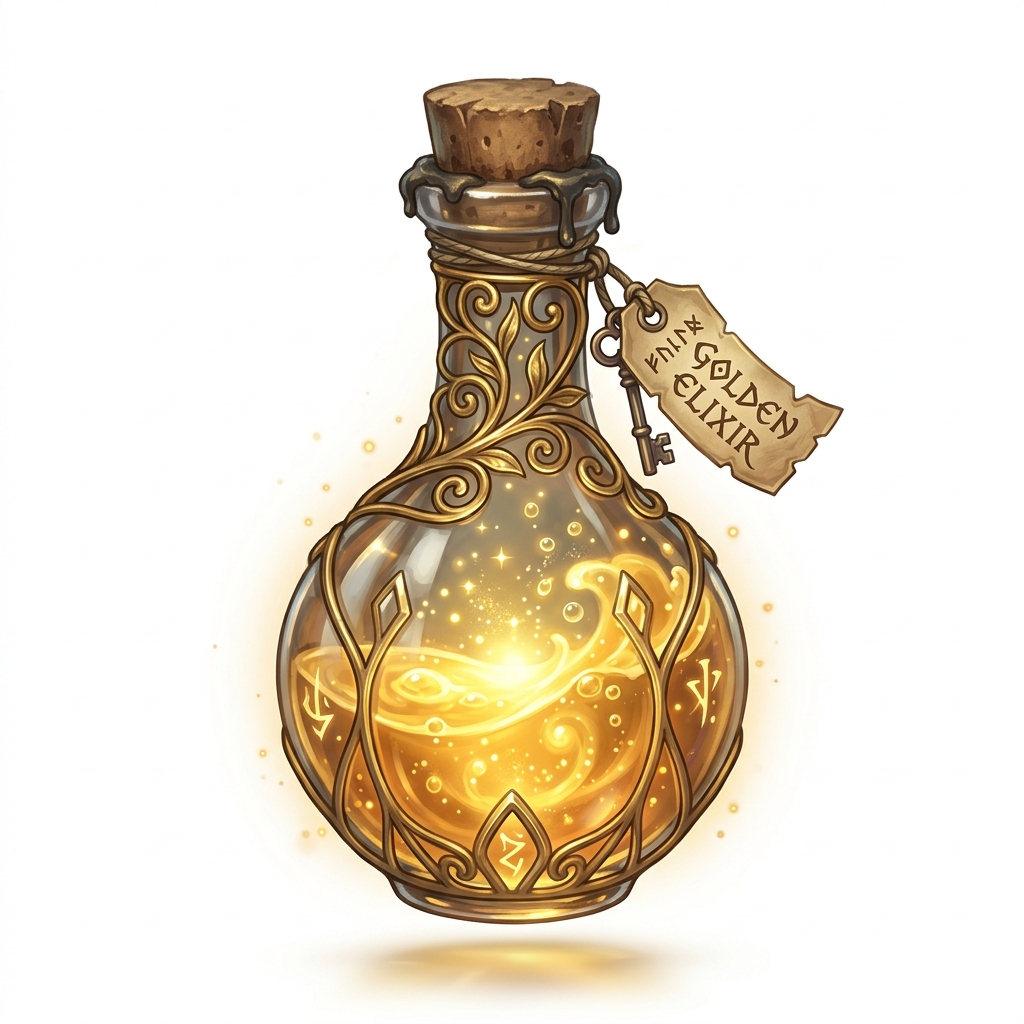
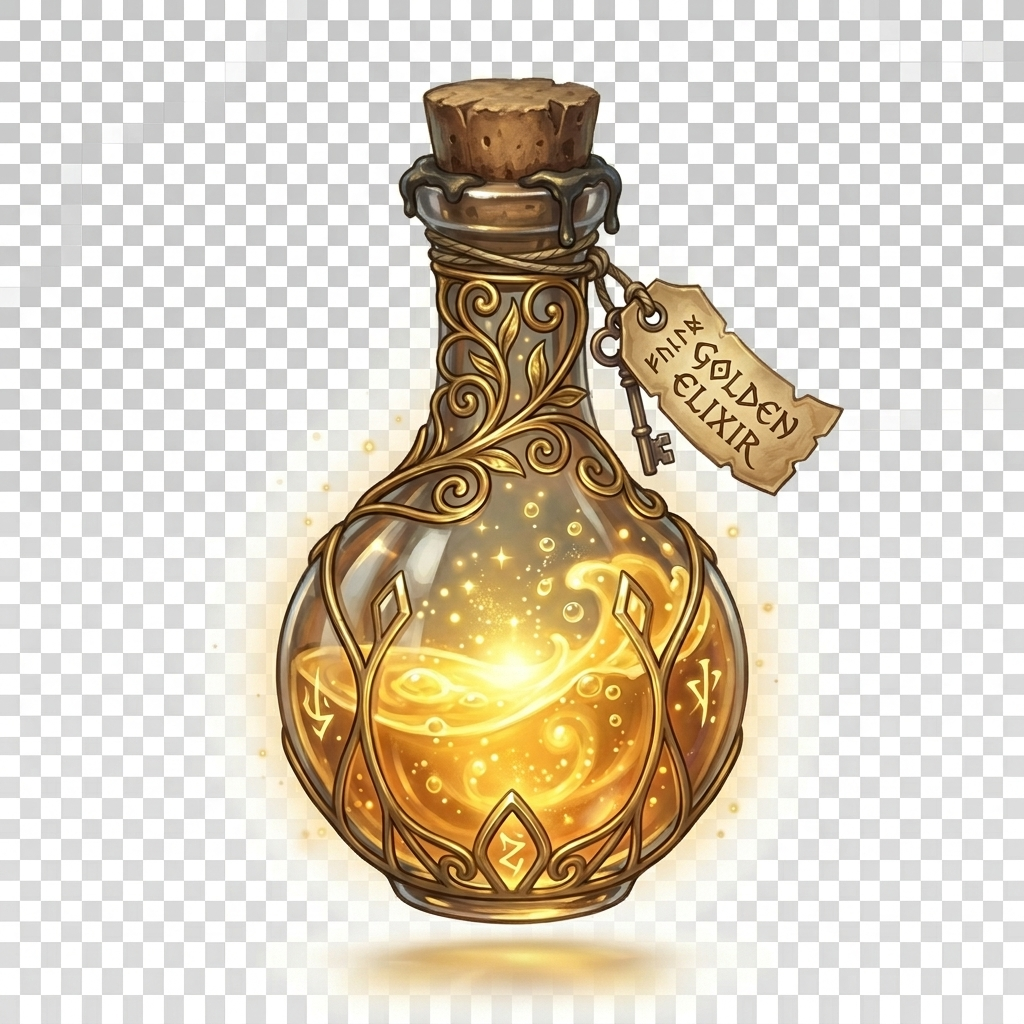
Refine giant mode: particles, post-invincibility, and randomized spawns

diff --git a/js/main.js b/js/main.js
@@ -60,8 +60,8 @@ class Game {
     
     this.obstacles = [];
     this.items = [];
-
-    this.lastTime = 0;
+    this.particles = [];
+    this.score = 0;
     this.spawnTimer = 0;
     this.nextSpawnInterval = this.getRandomSpawnInterval();
     this.lastPatternName = "";
@@ -238,7 +238,12 @@ class Game {
     this.score += this.worldSpeed * GAME_CONFIG.score.distanceScoreRate;
 
     if (this.background) this.background.update(this.worldSpeed);
-    if (this.player) this.player.update(this.input, this.worldSpeed, deltaTime);
+    this.player.update(this.input.keys, this.worldSpeed, deltaTime);
+    this.updateObstacles(deltaTime);
+    this.updateItems(deltaTime);
+    this.updateParticles(deltaTime);
+    this.updateScore(deltaTime);
+    this.patternManager.update(this.worldSpeed, deltaTime);
 
     // 패턴 단위 생성 관리
     this.spawnTimer++;
@@ -255,11 +260,16 @@ class Game {
         if (this.player.isGiantMode) {
           // 거대화 중 장애물 파괴
           obstacle.markedForDelete = true;
+          // 파괴 이펙트 생성
+          this.createObstacleBreakEffect(obstacle);
+          
           // 보너스 점수
           let bonus = 50;
           if (obstacle.type === "double") bonus = 80;
           if (obstacle.type === "slide") bonus = 60;
           this.score += bonus;
+        } else if (this.player.isPostGiantInvincible) {
+          // 거대화 종료 후 깜빡임 보호 상태 - 데미지 없음, 파괴 없음
         } else {
           // 난이도별 데미지 적용
           const damaged = this.player.takeDamage(diff.damage);
@@ -302,12 +312,21 @@ class Game {
     if (pattern.items) this.items.push(...pattern.items);
 
     // 거대화 물약 스폰 (낮은 확률)
-    if (Math.random() < 0.15) { // 약 15% 확률로 패턴 생성 시 물약 스폰 시도
+    if (Math.random() < 0.15) { 
       const potionImage = this.assets.getImage("giantPotion");
       if (potionImage) {
-        // 장애물과 겹치지 않는 위치 찾기 (패턴 끝 부분에 배치)
-        const potionX = startX + 600 + Math.random() * 400;
-        const potionY = GAME_CONFIG.ground.y - 90;
+        // 물약 y 위치 랜덤화 (low, mid, high)
+        const rand = Math.random();
+        let potionY;
+        if (rand < 0.45) {
+          potionY = GAME_CONFIG.ground.y - 85; // low (45%)
+        } else if (rand < 0.85) {
+          potionY = GAME_CONFIG.ground.y - 130; // mid (40%)
+        } else {
+          potionY = GAME_CONFIG.ground.y - 175; // high (15%)
+        }
+
+        const potionX = startX + 400 + Math.random() * 600;
         this.items.push(new GiantPotion({ x: potionX, y: potionY, image: potionImage }));
       }
     }
@@ -350,6 +369,7 @@ class Game {
         this.drawGame();
         break;
       case SCREEN.GAME_OVER:
+        this.drawGame();
         this.drawGameOver();
         break;
     }
@@ -357,6 +377,7 @@ class Game {
 
   drawGame() {
     this.obstacles.forEach((o) => o.draw(this.ctx));
+    this.drawParticles();
     this.items.forEach((i) => i.draw(this.ctx));
     if (this.player) this.player.draw(this.ctx);
     this.drawUI();
@@ -382,7 +403,67 @@ class Game {
       this.ctx.textAlign = "right";
       const remaining = (this.player.giantModeTimer / 1000).toFixed(1);
       this.ctx.fillText(`GIANT: ${remaining}s`, this.canvas.width - 40, 100);
+    } else if (this.player && this.player.isPostGiantInvincible) {
+      this.ctx.fillStyle = "#A8FFD6";
+      this.ctx.font = "bold 24px Arial";
+      this.ctx.textAlign = "right";
+      const remaining = (this.player.postGiantInvincibleTimer / 1000).toFixed(1);
+      this.ctx.fillText(`SAFE: ${remaining}s`, this.canvas.width - 40, 100);
     }
+  }
+
+  // 장애물 파괴 파티클 생성
+  createObstacleBreakEffect(obstacle) {
+    const box = obstacle.getHitBox();
+    const centerX = box.x + box.width / 2;
+    const centerY = box.y + box.height / 2;
+    
+    let count = 10;
+    if (obstacle.type === "double") count = 18;
+    if (obstacle.type === "slide") count = 14;
+
+    const colors = ["#b77cff", "#d6a8ff", "#7f5aa8", "#8e7a9d", "#c7b2d8"];
+
+    for (let i = 0; i < count; i++) {
+      this.particles.push({
+        x: centerX,
+        y: centerY,
+        vx: (Math.random() - 0.5) * 10,
+        vy: (Math.random() - 0.7) * 12,
+        size: Math.random() * 6 + 4,
+        life: 500 + Math.random() * 300,
+        maxLife: 800,
+        color: colors[Math.floor(Math.random() * colors.length)],
+        alpha: 1
+      });
+    }
+  }
+
+  updateParticles(deltaTime) {
+    for (let i = this.particles.length - 1; i >= 0; i--) {
+      const p = this.particles[i];
+      p.x += p.vx;
+      p.y += p.vy;
+      p.vy += 0.4; // 중력
+      p.life -= deltaTime;
+      p.alpha = Math.max(0, p.life / p.maxLife);
+      
+      if (p.life <= 0) {
+        this.particles.splice(i, 1);
+      }
+    }
+  }
+
+  drawParticles() {
+    this.ctx.save();
+    this.particles.forEach(p => {
+      this.ctx.globalAlpha = p.alpha;
+      this.ctx.fillStyle = p.color;
+      this.ctx.beginPath();
+      this.ctx.roundRect(p.x, p.y, p.size, p.size, 2);
+      this.ctx.fill();
+    });
+    this.ctx.restore();
   }
 
   drawHpBar() {

diff --git a/js/player.js b/js/player.js
@@ -133,6 +133,11 @@ class Player {
     this.giantScale = 1.45; // 시각적 배율
     this.giantHitBoxScale = 1.15; // 히트박스 배율
 
+    // 거대화 종료 후 보호 상태 추가
+    this.isPostGiantInvincible = false;
+    this.postGiantInvincibleTimer = 0;
+    this.postGiantInvincibleDuration = 2000;
+
     this.color = GAME_CONFIG.player.color;
 
     const animConfig = GAME_CONFIG.player.animation;
@@ -188,9 +193,11 @@ class Player {
 
     this.currentAnimKey = "run";
 
-    // 거대화 초기화
+    // 거대화 및 보호 상태 초기화
     this.isGiantMode = false;
     this.giantModeTimer = 0;
+    this.isPostGiantInvincible = false;
+    this.postGiantInvincibleTimer = 0;
   }
 
   update(input, worldSpeed, deltaTime) {
@@ -200,6 +207,7 @@ class Player {
     this.updateInvincibility(deltaTime);
     this.updateBounceEffect(deltaTime);
     this.updateGiantMode(deltaTime);
+    this.updatePostGiantInvincibility(deltaTime);
   }
 
   // 거대화 상태 업데이트
@@ -210,6 +218,21 @@ class Player {
     if (this.giantModeTimer <= 0) {
       this.isGiantMode = false;
       this.giantModeTimer = 0;
+      
+      // 거대화 종료 직후 보호 상태 진입
+      this.isPostGiantInvincible = true;
+      this.postGiantInvincibleTimer = this.postGiantInvincibleDuration;
+    }
+  }
+
+  // 거대화 종료 후 보호 상태 업데이트
+  updatePostGiantInvincibility(deltaTime) {
+    if (!this.isPostGiantInvincible) return;
+
+    this.postGiantInvincibleTimer -= deltaTime;
+    if (this.postGiantInvincibleTimer <= 0) {
+      this.isPostGiantInvincible = false;
+      this.postGiantInvincibleTimer = 0;
     }
   }
 
@@ -421,9 +444,11 @@ class Player {
     ctx.save();
 
     // 무적 상태일 때 깜빡임 효과 적용
-    if (this.isInvincible && !this.isGiantMode) {
-      const blink = Math.floor(this.invincibleTimer / 100) % 2 === 0;
-      ctx.globalAlpha = blink ? 0.45 : 1;
+    if ((this.isInvincible && !this.isGiantMode) || this.isPostGiantInvincible) {
+      // 100ms 단위로 깜빡임 (0.35 ~ 1.0 alpha)
+      const timer = this.isPostGiantInvincible ? this.postGiantInvincibleTimer : this.invincibleTimer;
+      const blink = Math.floor(timer / 100) % 2 === 0;
+      ctx.globalAlpha = blink ? 0.35 : 1;
     }
 
     // 거대화 아우라 효과

diff --git a/scratch/bg_remover.html b/scratch/bg_remover.html
@@ -1,0 +1,37 @@
+<!DOCTYPE html>
+<html>
+<body>
+  <canvas id="canvas"></canvas>
+  <script>
+    const canvas = document.getElementById('canvas');
+    const ctx = canvas.getContext('2d');
+    const img = new Image();
+    img.src = 'assets/images/item_giant_potion.png';
+    img.onload = () => {
+      canvas.width = img.width;
+      canvas.height = img.height;
+      ctx.drawImage(img, 0, 0);
+      const imageData = ctx.getImageData(0, 0, canvas.width, canvas.height);
+      const data = imageData.data;
+      
+      // Flood fill or edge-based removal would be better, but user said:
+      // "RGB가 235 이상인 배경 픽셀을 alpha 0으로 처리"
+      // "이미지 가장자리와 연결된 흰색 또는 거의 흰색 배경 제거"
+      
+      for (let i = 0; i < data.length; i += 4) {
+        const r = data[i];
+        const g = data[i+1];
+        const b = data[i+2];
+        if (r >= 235 && g >= 235 && b >= 235) {
+          data[i+3] = 0;
+        }
+      }
+      ctx.putImageData(imageData, 0, 0);
+      const link = document.createElement('a');
+      link.download = 'item_giant_potion.png';
+      link.href = canvas.toDataURL();
+      link.click();
+    };
+  </script>
+</body>
+</html>

diff --git a/js/objects.js b/js/objects.js
@@ -213,6 +213,16 @@ class GiantPotion extends GameObject {
       image,
     });
     this.type = "giant_potion";
+    this.padding = 8;
+  }
+
+  getHitBox() {
+    return {
+      x: this.x + this.padding,
+      y: this.y + this.padding,
+      width: this.width - this.padding * 2,
+      height: this.height - this.padding * 2,
+    };
   }
 
   draw(ctx) {
